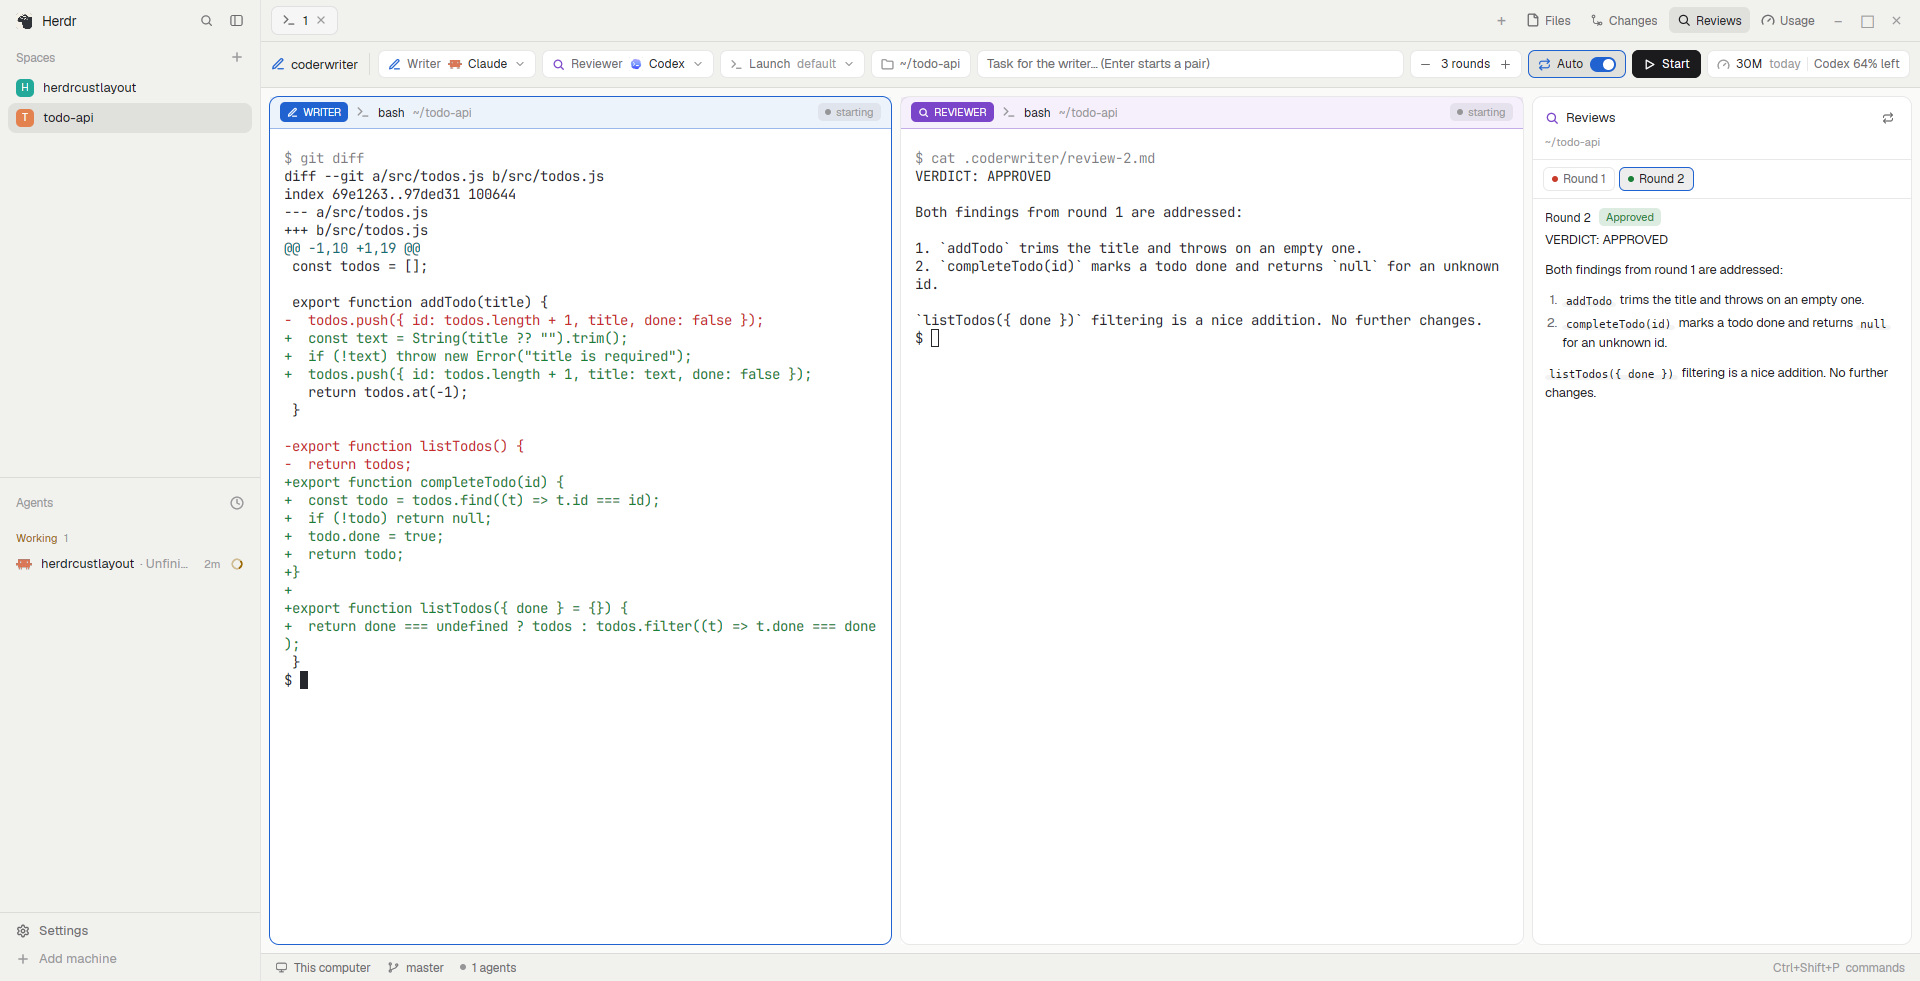
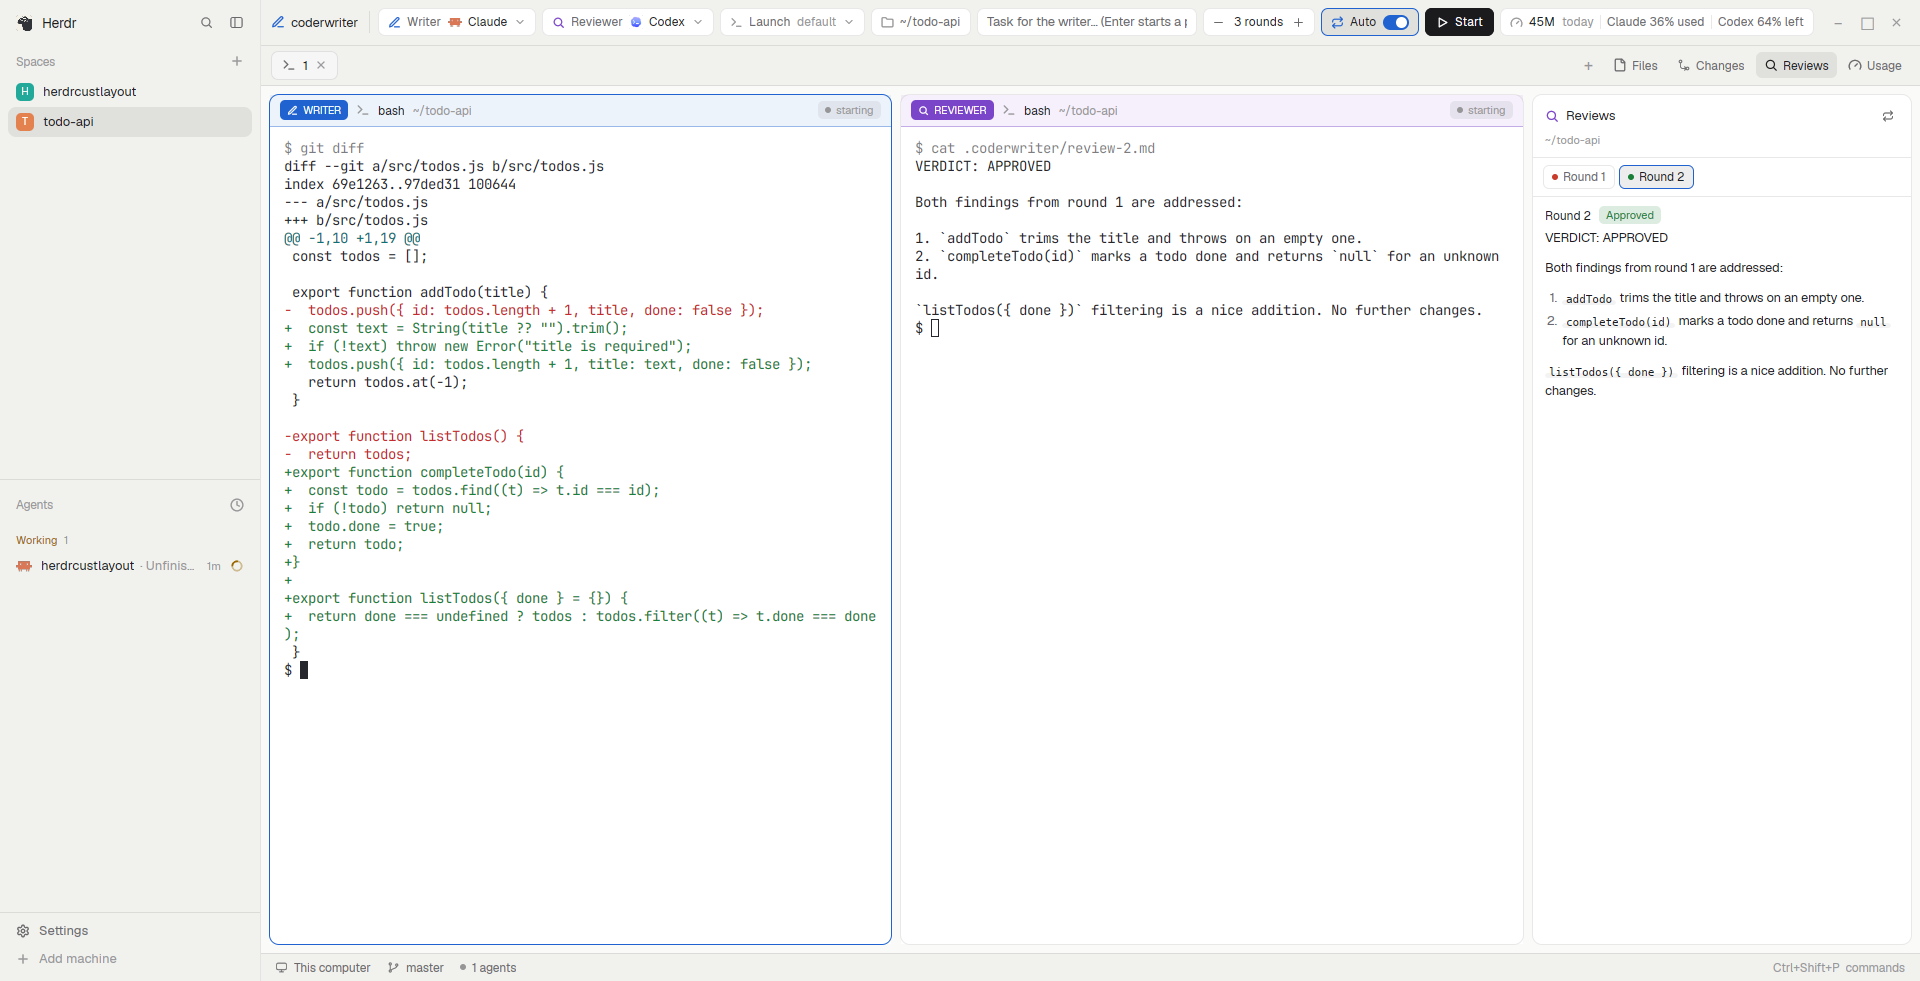
Tab bar under the coderwriter bar
The coderwriter bar is now the window's top row (drags the window, has
the window buttons); the tabs and panel toggles sit under it. Sidebar
header matches its height. New preview.

diff --git a/mods/coderwriter/main.js b/mods/coderwriter/main.js
@@ -5,7 +5,7 @@
 // props.which = "writer" | "reviewer").
 import { View, div, svg, image } from "gpui-kit";
 import { h_flex, v_flex, InputState, Input } from "gpui-base";
-import { theme, spaces, panes, focused, knownAgents, openOverlay, closeOverlay, props, pickFolder, notify, home, shared, setShared, nextCommand } from "herdr";
+import { theme, spaces, panes, focused, knownAgents, openOverlay, closeOverlay, props, pickFolder, notify, home, shared, setShared, nextCommand, run, window, layout, settings } from "herdr";
 import * as P from "./pair.js";
 import { Reviews } from "./reviews.js";
 import { Launch, isDangerous, customized } from "./launch.js";
@@ -296,13 +296,30 @@ class Bar {
       .child(this.autoToggle(t, p))
       .child(this.button(t, "stop", "stop", "Stop", () => P.stop(p.tab), { enabled: busy || Boolean(p.auto) }));
 
-    return h_flex().id("cw-bar").size_full().min_w(0).px(10).gap(8).items_center().bg(t.chrome).border_b(1).border_color(t.border)
+    // As the window's top row (props.controls): the window buttons where the system draws
+    // none, and room for macOS's traffic lights when the sidebar is too narrow to hold them.
+    const controls = Boolean(props()?.controls), w = window();
+    const find = (n, id) => (n?.id === id ? n : (n?.children ?? []).map((c) => find(c, id)).find(Boolean) ?? null);
+    const root = layout(), sidebar = find(root, "sidebar");
+    const lights = controls && w?.platform === "macos" && w.titlebar === "none" && !w.fullscreen && root?.traffic_lights
+      ? Math.max(10, (root.traffic_lights[0] + 64) / (settings().zoom ?? 1) - (sidebar?.hidden ? 0 : sidebar?.size?.px ?? 0)) : 10;
+    const winButton = (id, label, action) => div().id(id).size(26).flex_none().flex().items_center().justify_center().rounded(6)
+      .text_color(t.dim).hover((s) => s.bg(t.hover).text_color(t.foreground))
+      .on_mouse_down("left", (_e, cx) => cx.stop_propagation()).on_click(action).child(label);
+    const winIcon = (name, size) => svg(`mods/coderwriter-tabs/${name}.svg`).size(size);
+    const windowButtons = !(controls && w?.buttons) ? null : h_flex().flex_none().gap(3).items_center().pl(4)
+      .child(winButton("minimize", w.platform === "windows" ? winIcon("win-min", 16) : "−", () => run("window.minimize")))
+      .child(winButton("maximize", w.platform === "windows" ? winIcon(w.maximized ? "win-restore" : "win-max", 16) : "□", () => run("window.maximize")))
+      .child(winButton("close-window", w.platform === "windows" ? winIcon("win-close", 16) : svg("mods/pane/close.svg").size(13), () => run("window.close")));
+
+    return h_flex().id("cw-bar").size_full().min_w(0).px(10).pl(lights).gap(8).items_center().bg(t.chrome).border_b(1).border_color(t.border)
       .child(h_flex().flex_none().gap(6).items_center().pr(2)
         .child(svg(I("pen")).size(14).text_color(t[ROLE_COLOR.writer]))
         .child(div().text_size(12.8).font_semibold().text_color(t.foreground).child("coderwriter")))
       .child(sep())
       .child(setup)
-      .when(Boolean(pairGroup), (el) => el.child(pairGroup));
+      .when(Boolean(pairGroup), (el) => el.child(pairGroup))
+      .when(Boolean(windowButtons), (el) => el.child(windowButtons));
   }
 }
 

diff --git a/mods/coderwriter-tabs/main.js b/mods/coderwriter-tabs/main.js
@@ -1,6 +1,6 @@
 import { View, div, svg, image } from "gpui-kit";
 import { h_flex, ScrollHandle } from "gpui-base";
-import { spaces, panes, run, openOverlay, theme, window, shared, layout, settings } from "herdr";
+import { spaces, panes, run, openOverlay, theme, window, shared, layout, settings, props } from "herdr";
 
 function find(node, id) {
   if (node?.id === id) return node;
@@ -83,7 +83,9 @@ export default class Tabs extends View {
     };
     const root = layout(), sidebar = find(root, "sidebar"), w = window();
     // Old saved rails and a dragged-narrow sidebar can be smaller than the window buttons.
-    const lightsPadding = w?.platform === "macos" && w.titlebar === "none" && !w.fullscreen && root?.traffic_lights
+    // props.controls === false: another row on top has the window buttons and the macOS lights.
+    const controls = props()?.controls !== false;
+    const lightsPadding = controls && w?.platform === "macos" && w.titlebar === "none" && !w.fullscreen && root?.traffic_lights
       ? Math.max(10, (root.traffic_lights[0] + 64) / settings().zoom - (sidebar?.hidden ? 0 : sidebar?.size?.px ?? 0))
       : 10;
     const panel = find(root, "panel"), body = find(root, "panel-body");
@@ -115,7 +117,7 @@ export default class Tabs extends View {
       .when(enabled.includes("changes"), el => el.child(panelButton("changes", "Changes", "mods/changes/changes.svg")))
       .when(enabled.includes("reviews"), el => el.child(panelButton("reviews", "Reviews", "mods/coderwriter/icons/search.svg")))
       .when(enabled.includes("usage"), el => el.child(panelButton("usage", "Usage", "mods/coderwriter/icons/gauge.svg")))
-      .when(w?.buttons, el => el.child(button("minimize", w.platform === "windows" ? svg("mods/coderwriter-tabs/win-min.svg").size(16) : "−", () => run("window.minimize")))
+      .when(controls && w?.buttons, el => el.child(button("minimize", w.platform === "windows" ? svg("mods/coderwriter-tabs/win-min.svg").size(16) : "−", () => run("window.minimize")))
         .child(button("maximize", w.platform === "windows" ? svg(`mods/coderwriter-tabs/${w.maximized ? "win-restore" : "win-max"}.svg`).size(16) : "□", () => run("window.maximize")))
         .child(button("close-window", w.platform === "windows" ? svg("mods/coderwriter-tabs/win-close.svg").size(16) : svg("mods/pane/close.svg").size(13), () => run("window.close"))));
   }

diff --git a/RECIPE.md b/RECIPE.md
@@ -17,14 +17,11 @@ Left to right, top to bottom (sizes at zoom 1, colors are theme names so it foll
 and dark themes):
 
 - **Sidebar**, 260 px, `chrome` background, 1 px `border` divider on its right. Herdr's
-  `workspace-chrome` header (42 px: logo, search, collapse), then `spaces` and `agents`
+  `workspace-chrome` header (46 px, level with the coderwriter bar: logo, search, collapse), then `spaces` and `agents`
   sharing the height equally (90 px minimum each), then the `workspace-chrome` footer
   (69 px: Settings, Add machine). Folding it narrows it to a 44 px rail.
-- **Tab bar**, 42 px, drags the window. Tabs as pills, `+` (new terminal or agent), then
-  four panel toggles: **Files**, **Changes**, **Reviews**, **Usage** (the open one gets the
-  `selected` background), then window buttons where the system draws none. When the
-  sidebar is hidden, a sidebar button appears at its left edge.
-- **coderwriter bar**, 46 px, `chrome` background, bottom border. Left to right:
+- **coderwriter bar**, 46 px, the window's top row: drags the window (double-click maximizes),
+  `chrome` background, bottom border. Left to right:
   - pen icon (`ansi4`) and **coderwriter** in semibold 12.8 px;
   - **Writer** chip (pen, `ansi4`) and **Reviewer** chip (magnifier, `ansi5`), each with
     the agent's icon and name and a chevron; a click opens a 250 px popup listing Claude
@@ -44,6 +41,12 @@ and dark themes):
     spinner while a job runs, the pair's note ("Round 2: reviewing"), a verdict pill
     (Approved / Changes requested / No review file / No verdict), `round/max`, **Review →**,
     **← Feedback**, **Auto**, **Stop**.
+  - window buttons (−, □, ×) at the right end where the system draws none (Linux, Windows);
+    on macOS it leaves room for the traffic lights when the sidebar is too narrow.
+- **Tab bar**, 40 px, under the coderwriter bar. Tabs as pills, `+` (new terminal or agent),
+  then four panel toggles: **Files**, **Changes**, **Reviews**, **Usage** (the open one gets
+  the `selected` background). When the sidebar is hidden, a sidebar button appears at its
+  left edge.
 - **Panes**, 8 px padding and gap, cards with 10 px radius, 1 px `border` (accent when
   focused), framed even when alone. Each has a 32 px header: a writer or reviewer pane gets a
   solid role chip (`WRITER` in `ansi4` / `REVIEWER` in `ansi5`), a header tinted with that
@@ -150,8 +153,9 @@ and dark themes):
 
 - `layouts/coderwriter.json`: root `row` (`titlebar: none`, `canvas` background, terminal
   padding 14×12) → `sidebar` column (`brand`, `sidebar-lists` with `spaces` + `agents`,
-  `sidebar-footer`) and `work` column → `tabs` (`coderwriter-tabs`), `cw-bar`
-  (`coderwriter`, props `{role: "bar"}`), `work-body` row (`main`: `{tab: "active"}` with the
+  `sidebar-footer`) and `work` column → `cw-bar` (`coderwriter`, props
+  `{role: "bar", controls: true}`, `window_drag`), `tabs` (`coderwriter-tabs`, props
+  `{controls: false}`), `work-body` row (`main`: `{tab: "active"}` with the
   pane frame and `coderwriter-pane` header; `panel` column → `panel-body` stack of `files`
   (`coderwriter-files`),
   `changes`, `reviews` (`coderwriter` `{role: "reviews"}`), `usage` (`coderwriter`
@@ -165,7 +169,8 @@ and dark themes):
   `m:<id>`), usage in
   `coderwriter.usage`.
 - `mods/coderwriter-tabs/`: a clone of Herdr's `tabs` that always offers the panels the
-  layout has and a show-sidebar button.
+  layout has and a show-sidebar button; `controls: false` leaves the window buttons and the
+  macOS traffic-light room to the row above.
 - `mods/coderwriter-pane/`: a clone of Herdr's `pane` header with role chips and badges.
 - `mods/coderwriter-files/`: a clone of Herdr's `files` with create and rename; operations
   are `sh -c` scripts (`cd`, an exists check, then `mkdir -p --`, `set -C; : >`, `mv --`) run
